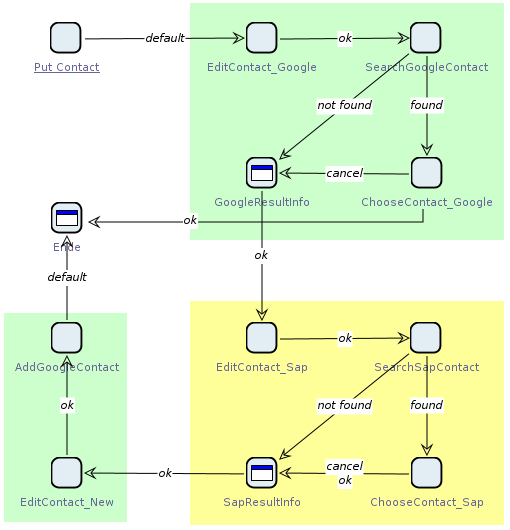
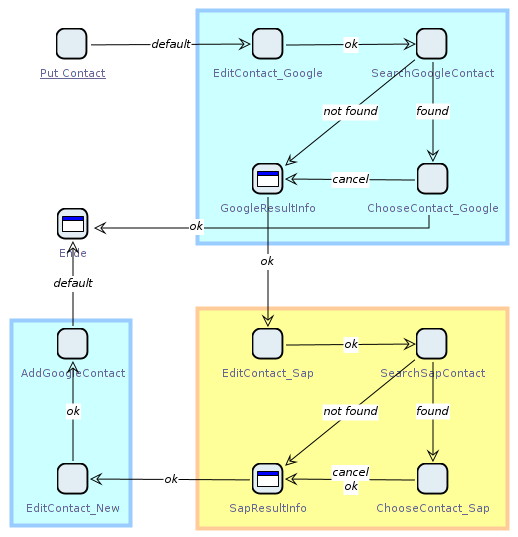
Mein Teil fertig

diff --git a/praesi/dli_praesi.tex b/praesi/dli_praesi.tex
@@ -15,7 +15,7 @@
 \usetheme{Warsaw}
 \usefonttheme{professionalfonts}
 
-\usecolortheme[named=green4]{structure}
+\usecolortheme[named=SteelBlue3]{structure}
 
 \usepackage{ownTheme}
 \setbeamertemplate{footline}[infolines theme]
@@ -44,7 +44,7 @@
 	commentstyle=\color{Gray}, % white comments
 	stringstyle=\color{Blue}, % typewriter type for strings
 	showstringspaces=false % no special string spaces 
-	tabsize=2,
+	tabsize=3,
 	language=Java,
 	captionpos=b,
 % 	caption={#1},
@@ -65,8 +65,8 @@
 
 \begin{document}
 
-\title[DLI Projekt: Kontakte]{DLI Projekt: Kontakte}
-\subtitle[DLI]{Vorlesung Aktuelle Themen der Dienstleistungsinformatik}
+\title[DLI Projekt: Kontakte]{Projekt: Kontakte}
+\subtitle[DLI]{Vorlesung: Aktuelle Themen der Dienstleistungsinformatik}
 %\date{\today} % gibt aktuelles Datum zurueck
 \date{22. Januar 2013}
 \author[Marzotko, Seeland, Wirkner]{Markus Marzotko, Thorben Seeland, Dominic Wirkner\\ {\scriptsize Prof.\ Dr.\ Bernhard Steffen, Dipl.-Inf. Markus Doedt}} 
@@ -80,50 +80,6 @@
 %%%%%%%%%%%%%%	Gliederung		%%%%%%%%%%%%%%
 \tableofcontents
 \end{frame}			
-
-\section{Einf\"uhrung}
-
-\begin{frame}[fragile]{Test}
-\pause
-\begin{block}{Den Kontakt einer Gruppe hinzufügen}
-\javalstset
-\begin{lstlisting}
-// Gruppe setzen
-String groupURL = null;
-switch (contactInfoCopy.getType()) {
-case CUSTOMER:
-groupURL = customerGroupURL;
-contact.addGroupMembershipInfo(new GroupMembershipInfo(false, groupURL));
-\end{lstlisting}
-\end{block}
-\end{frame}
-
-\subsection*{Begriffskl\"arung}
-
-\begin{frame}{Was ist Compliance?}
-\pause
-\begin{block}{Definition 1}
-		\begin{quote}
-			"`Die Binsenweisheit, dass Unternehmen Gesetze einhalten m\"ussen, hei{\ss}t nun
-			Compliance."'
-		\end{quote}
-			Uwe H. Schneider, ZIP 2003, S. 645f
-\end{block}
-\pause
-\begin{block}{Definition 2}
-	\begin{quote}
-		Bei "`Compliance"' geht es um die "`Erf\"ullung"', "`Entsprechung"' bzw.
-		"`Konformit\"at"' mit staatlichen Gesetzen sowie mit Regeln und Spezifikationen,
-		mit Grunds\"atzen (ethische und moralische) und Verfahren sowie mit Standards
-		(z.B. ISO) und Konventionen, die klar definiert worden sind. Die Erf\"ullung der
-		Compliance kann sowohl auf Zwang (z.B. durch Gesetze) als auch auf
-		Freiwilligkeit (z.B. Einhaltung von Standards) beruhen.
-	\end{quote}
-		laut Compliance-Magazin.de
-\end{block}
-\end{frame}
-
-
 
 %%% Einführung %%%
 \input{intro}

diff --git a/praesi/jabc.tex b/praesi/jabc.tex
@@ -147,10 +147,10 @@
 	\item \textbf{Unterschiede in der Laufzeitumgebung:} 
 	\begin{itemize}
 			\item Code läuft ausserhalb von jABC...
-			\item ABER: Ausführung des Graphen wirft \texttt{Exception}?
+			\item \underline{ABER}: Ausführung des Graphen wirft \texttt{Exception}?
 	\end{itemize}
 	\pause
-	\item \textbf{Lösung hier:} mittels "`\underline{bad} Practice"'
+	\item \textbf{Lösung hier:} mittels \textit{"`bad Practice"'}
 \end{itemize}
 
 \begin{block}{Änderung von Systemeigenschaften}
@@ -159,7 +159,7 @@
 ...
 System.setProperty("javax.xml.parsers.SAXParser", ...);
 System.setProperty("...parsers.SAXParserFactory", ...);
-System.setProperty("oracle.xml.parser.v2.SAXParser...);
+System.setProperty("oracle.xml.parser.v2.SAXParser",...
 ...
 \end{lstlisting}
 \end{block}
@@ -168,8 +168,8 @@ System.setProperty("oracle.xml.parser.v2.SAXParser...);
 	\item \textbf{Effekt:}
 		\begin{itemize}
 			\item konfiguriert aktiv laufende JVM
-			\item auch nach Ausführung des Modells weiterhin wirksam
-			\item sollte in realem Szenario vermieden werden!
+			\item auch \underline{nach} Ausführung des Modells weiterhin wirksam
+			\item sollte in einem produktivem System \underline{nicht} werden!
 		\end{itemize}
 \end{itemize}
 \end{frame}

diff --git a/praesi/intro.tex b/praesi/intro.tex
@@ -18,15 +18,17 @@
 		\begin{itemize}
 			\item Kontakte nur bei Bedarf übertragen!
 			\pause
-			\item zunächst bei Google anfragen
-			\item erst dann Migration von SAP
-			\item sonst manuelle Eingabe
+			\begin{enumerate}
+				\item zunächst bei Google anfragen
+				\item erst dann Migration von SAP
+				\item sonst manuelle Eingabe
+			\end{enumerate}
 		\end{itemize}
 	\pause
 	\item \textbf{erste Überlegungen:}
 		\begin{itemize}
 			\item Aufteilung in drei Bereiche: Google, SAP, SIBs
-			\item GUI Elemente für Dateingabe notwendig
+			\item GUI Elemente für Nutzereingabe notwendig
 		\end{itemize}
 
 \end{itemize}
